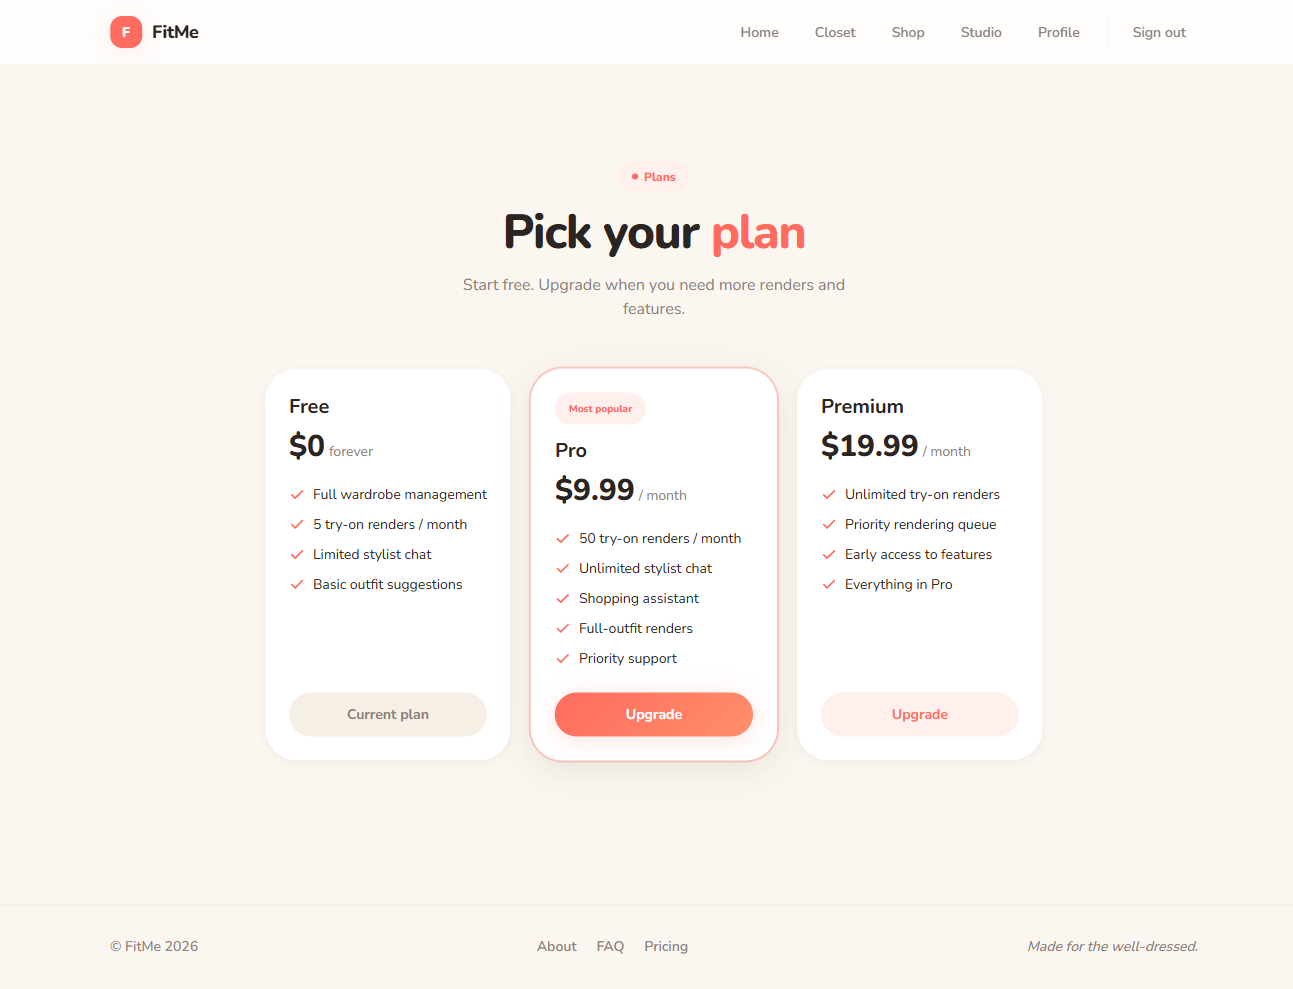
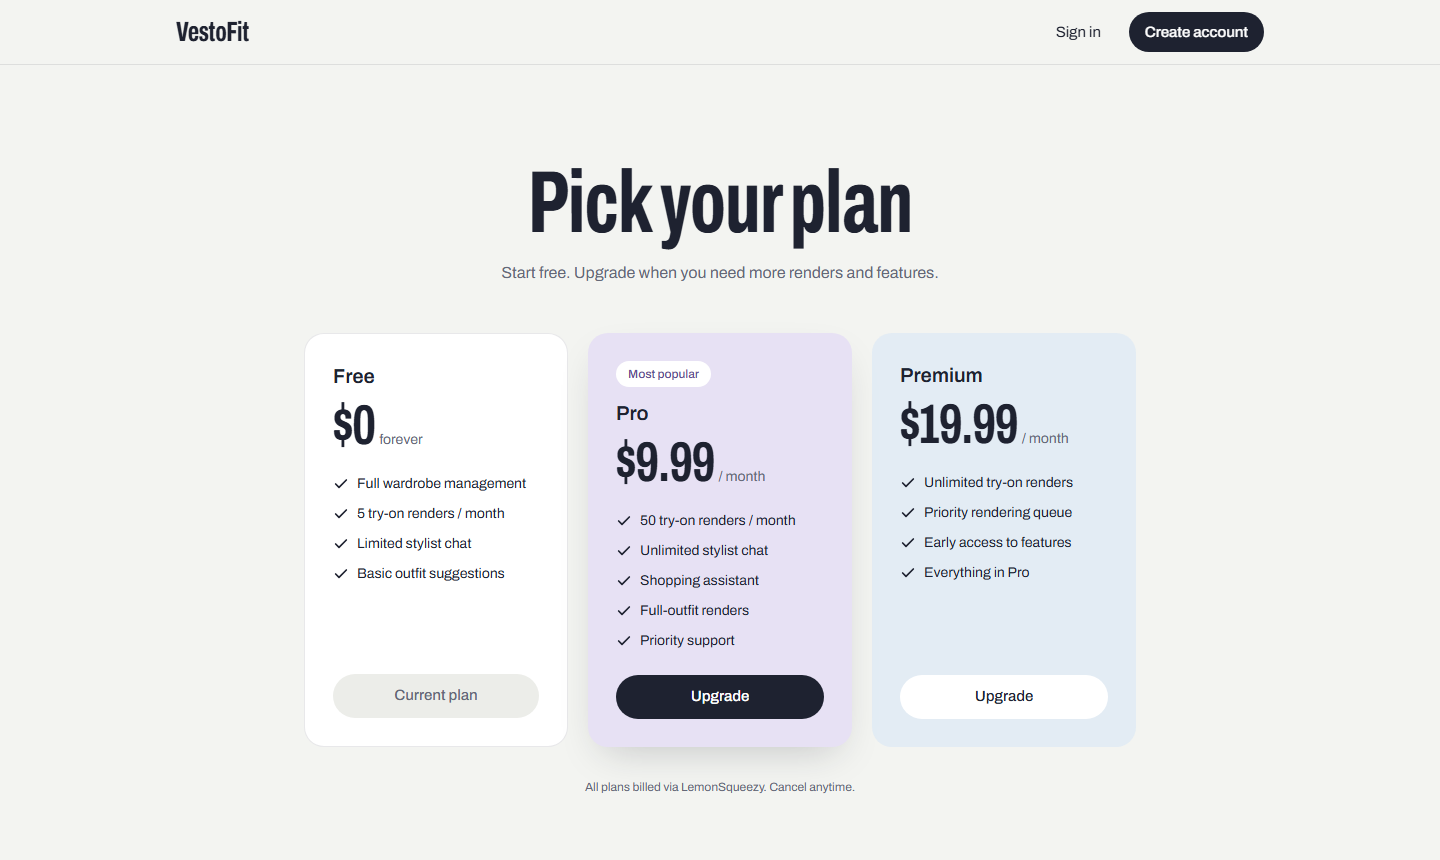
docs: refresh README hero, badges and screenshots
New web demo screenshots replace the old FitMe-era set; add design
notes and image credits.

diff --git a/README.md b/README.md
@@ -1,15 +1,26 @@
-# VestoFit — AI Stylist & Virtual Try-On
+<h1 align="center">VestoFit</h1>
 
-VestoFit is a fashion-tech app that combines an AI stylist, a virtual wardrobe, photorealistic virtual try-on, and AI-assisted shopping — all driven by natural conversation.
+<p align="center"><b>Get dressed from the closet you already own.</b><br/>
+An AI stylist, virtual wardrobe, virtual try-on and shopping assistant in one app.</p>
+
+<p align="center">
+  <img alt="Expo" src="https://img.shields.io/badge/Expo-54-1E2230?logo=expo&logoColor=white" />
+  <img alt="React Native" src="https://img.shields.io/badge/React_Native-0.81-3F51C7?logo=react&logoColor=white" />
+  <img alt="FastAPI" src="https://img.shields.io/badge/FastAPI-0.115-46654A?logo=fastapi&logoColor=white" />
+  <img alt="PostgreSQL" src="https://img.shields.io/badge/PostgreSQL-16-36628F?logo=postgresql&logoColor=white" />
+  <img alt="Next.js" src="https://img.shields.io/badge/Next.js-14-5E4E92?logo=nextdotjs&logoColor=white" />
+  <img alt="TypeScript" src="https://img.shields.io/badge/TypeScript-5-3F51C7?logo=typescript&logoColor=white" />
+</p>
+
+<p align="center">
+  <img src="docs/screenshots/landing.png" alt="VestoFit landing page with an example stylist reply over a photo of a knit sweater" />
+</p>
+
+VestoFit learns your wardrobe from photos, puts outfits together for wherever you're going, and shows them on you before you change.
 
 - **Mobile app** (`mobile/`) — Expo / React Native. **This is the production surface.**
 - **Backend API** (`backend/`) — FastAPI + PostgreSQL, serves the mobile app (and the web demo).
 - **Web demo** (`frontend/`) — Next.js. Development/demo surface only; it does not ship to production.
-
-<p align="center">
-  <img src="docs/screenshots/home-auth.png" width="48%" alt="AI stylist home" />
-  <img src="docs/screenshots/studio.png" width="48%" alt="Try-on studio" />
-</p>
 
 ---
 
@@ -181,7 +192,7 @@ Full, live schema at `/docs` when the backend is running.
 ## Project layout
 
 ```
-VTO/
+VestoFit/
 ├── backend/            FastAPI app
 │   ├── app/
 │   │   ├── routers/    HTTP endpoints
@@ -202,6 +213,21 @@ VTO/
 
 ## Screenshots (web demo)
 
-| Wardrobe | Shop | Pricing |
-|---|---|---|
-| ![Wardrobe](docs/screenshots/wardrobe-final.png) | ![Shop](docs/screenshots/shop.png) | ![Pricing](docs/screenshots/pricing.png) |
+| Stylist home | Closet |
+|---|---|
+| ![Stylist home with today's look and chat](docs/screenshots/stylist.png) | ![Closet empty state](docs/screenshots/closet.png) |
+| **Shop** | **Sign in** |
+| ![Shop with idea tiles and stylist chat](docs/screenshots/shop.png) | ![Sign-in page](docs/screenshots/sign-in.png) |
+
+<details>
+<summary>Full landing page</summary>
+
+![Full landing page](docs/screenshots/landing-full.jpg)
+
+</details>
+
+### Design
+
+The web demo uses one type family, [Archivo](https://fonts.google.com/specimen/Archivo), with its condensed width for headlines. Colours are a navy ink, a soft cobalt accent and five pastel fields (sage, sky, blush, butter, lilac) that also mark clothing categories. Tokens live in `frontend/tailwind.config.ts` and `frontend/src/app/globals.css`.
+
+Photography is from Unsplash under the Unsplash License; sources are listed in [`frontend/public/images/CREDITS.md`](frontend/public/images/CREDITS.md).
